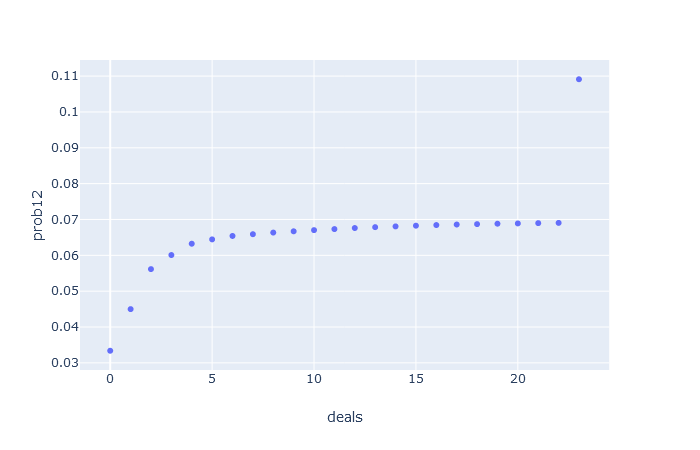
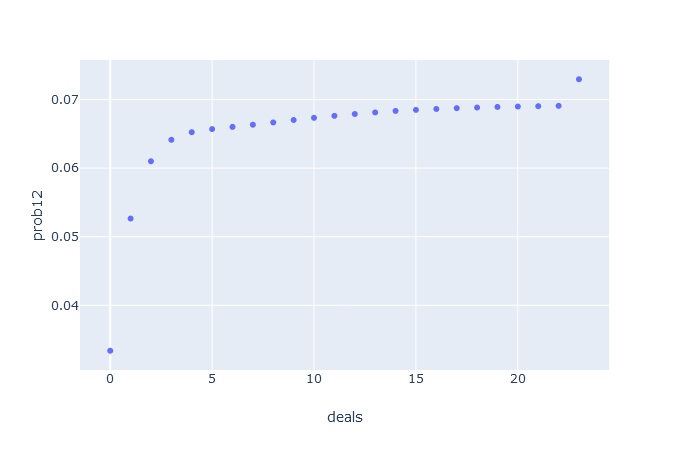
updated graphs and results

diff --git a/README.md b/README.md
@@ -59,13 +59,13 @@ The y-axis is the probability of a hand having no sets. Each graph represents a 
 The 12 card hands act mostly as expected. The probability of a 12 card hand having no sets starts off low because the initial 12 cards are
 completely random. As the game is played and sets are removed and replaced with random cards, the probability of a setless 12 cards hand
 increases at a logarithmic rate. The 23rd (last) deal of cards into the hand is interesting, though. If there are only 12 cards remaining
-when the last cards are added from the deck into the hand the probability of a setless hand jumps to 11%.
+when the last cards are added from the deck into the hand the probability of a setless hand jumps up slightly.
 
 ![](./resources/15.png)
 
 This is where things get very confusing. When 15 card hands are encountered after one and two deals (when either the original 12 has no sets
 or it has a set but the new 12 after has no sets) the probability of the 15 cards containing no sets is the highest. Followed by a sharp
-decline to the lowest probability at 5 deals where it nearly increases linearly from there.
+decline to the lowest probability at 5 deals where it nearly increases linearly from there. The drop off at the end is also peculiar.
 
 ![](./resources/18.png)
 
